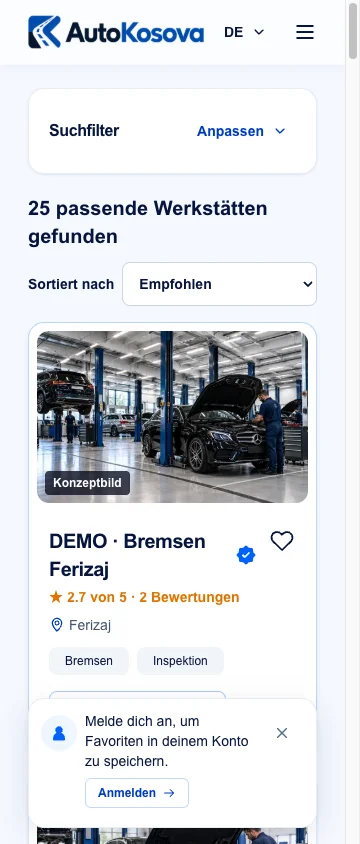
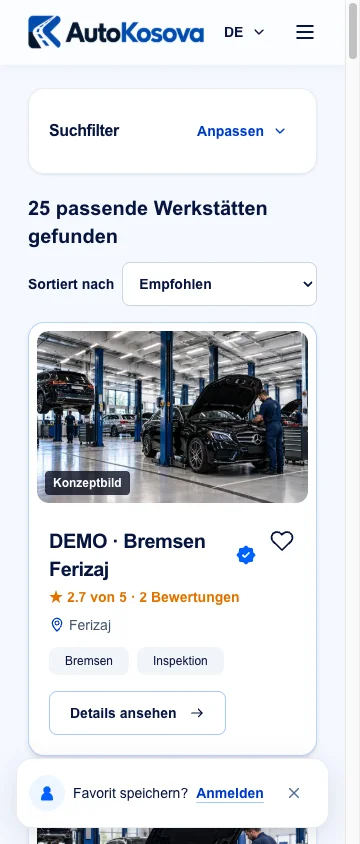
style: use compact inline sign-in link in favorite toast (#43)

Changed region(s): [[0.0611, 0.8318, 0.8861, 0.9858]]

diff --git a/src/app/search-handoff.component.ts b/src/app/search-handoff.component.ts
@@ -463,7 +463,7 @@ interface Area {
     }
     @if (favorites.message(); as message) {
       <div
-        class="pointer-events-none fixed right-0 bottom-[max(1rem,env(safe-area-inset-bottom))] left-0 z-50 mx-auto flex w-[calc(100%_-_1.5rem)] max-w-[1352px] justify-center px-4 sm:px-6 lg:w-[calc(100%_-_4rem)]"
+        class="pointer-events-none fixed right-0 bottom-[max(1rem,env(safe-area-inset-bottom))] left-0 z-50 mx-auto flex w-[calc(100%_-_2rem)] max-w-xl justify-center"
       >
         <div
           [attr.role]="message === 'error' ? 'alert' : 'status'"
@@ -486,21 +486,16 @@ interface Area {
               class="size-[18px]"
             />
           </span>
-          <div class="min-w-0 grow">
-            <p class="flex min-h-11 items-center leading-5 font-medium">
-              {{ ui('favorites.' + message) }}
-            </p>
+          <div
+            class="flex min-h-11 min-w-0 grow flex-wrap items-center gap-x-2 text-sm leading-5 font-medium"
+          >
+            <span>{{ ui('favorites.' + message) }}</span>
             @if (message === 'signIn') {
               <a
                 [href]="favoriteLoginUrl()"
-                class="group inline-flex min-h-11 items-center rounded-md focus-visible:outline-2 focus-visible:outline-offset-2 focus-visible:outline-brand"
+                class="inline-flex min-h-11 items-center rounded-sm font-semibold text-brand-dark underline decoration-brand/35 underline-offset-4 hover:decoration-brand focus-visible:outline-2 focus-visible:outline-offset-2 focus-visible:outline-brand"
+                >{{ ui('favorites.login') }}</a
               >
-                <span
-                  class="inline-flex items-center gap-1.5 rounded-md border border-brand/25 px-3 py-1.5 text-xs font-semibold text-brand-dark transition-colors group-hover:bg-blue-50"
-                >
-                  {{ ui('favorites.login') }}<app-icon name="arrow" class="size-3.5" />
-                </span>
-              </a>
             }
           </div>
           <button

diff --git a/src/shared/search-copy.ts b/src/shared/search-copy.ts
@@ -8,7 +8,7 @@ export const searchCopy: Readonly<Record<AppLanguage, Readonly<Record<string, st
     'favorites.remove': '{garage} aus Favoriten entfernen',
     'favorites.saved': 'Im Benutzerkonto als Favorit gespeichert.',
     'favorites.removed': 'Aus deinen Favoriten entfernt.',
-    'favorites.signIn': 'Melde dich an, um Favoriten in deinem Konto zu speichern.',
+    'favorites.signIn': 'Favorit speichern?',
     'favorites.error': 'Favoriten konnten nicht aktualisiert werden. Bitte versuche es erneut.',
 
     'search.ui.allLocations': 'Ganz Kosovo',
@@ -55,7 +55,7 @@ export const searchCopy: Readonly<Record<AppLanguage, Readonly<Record<string, st
     'favorites.remove': 'Hiq {garage} nga të preferuarat',
     'favorites.saved': 'U ruajt te të preferuarat në llogarinë tënde.',
     'favorites.removed': 'U hoq nga të preferuarat.',
-    'favorites.signIn': 'Hyr për të ruajtur të preferuarat në llogarinë tënde.',
+    'favorites.signIn': 'Ruaj të preferuarat?',
     'favorites.error': 'Të preferuarat nuk u përditësuan. Provo përsëri.',
 
     'search.ui.allLocations': 'Gjithë Kosova',
@@ -102,7 +102,7 @@ export const searchCopy: Readonly<Record<AppLanguage, Readonly<Record<string, st
     'favorites.remove': 'Remove {garage} from favorites',
     'favorites.saved': 'Saved to favorites in your account.',
     'favorites.removed': 'Removed from your favorites.',
-    'favorites.signIn': 'Sign in to save favorites in your account.',
+    'favorites.signIn': 'Save your favorites?',
     'favorites.error': 'Favorites could not be updated. Please try again.',
 
     'search.ui.allLocations': 'All of Kosovo',

diff --git a/docs/design/evidence/issue-43/README.md b/docs/design/evidence/issue-43/README.md
@@ -92,6 +92,6 @@ Navbar-Inhalt und Suchinhalt teilen exakt dieselben Außenkanten: bei allen vier
 
 ## Kompakte Favoriten-Hinweise
 
-Toasts sind maximal 576 px breit und unten mittig positioniert. Status-Icon, 14-px-Text und Schließen-Button bilden eine gemeinsame Zeile; der Gast-Hinweis enthält einen Anmelden-Button. Mobile Seitenabstände und Safe Area bleiben berücksichtigt. Fehler werden als Alert angekündigt, andere Hinweise als Status.
+Toasts sind maximal 576 px breit und unten mittig positioniert. Status-Icon, 14-px-Text und Schließen-Button bilden eine gemeinsame Zeile; der kurze Gast-Hinweis „Favorit speichern?“ enthält direkt daneben den Textlink „Anmelden“. Mobile Seitenabstände und Safe Area bleiben berücksichtigt. Fehler werden als Alert angekündigt, andere Hinweise als Status.
 
 [Echter Gast-Hinweis Desktop](toast-login-1448.webp), [Mobil 360](toast-login-360.webp). Die Zustände [Gespeichert](toast-saved-fixture.webp), [Entfernt](toast-removed-fixture.webp) und [Fehler](toast-error-fixture.webp) wurden für diese reine Darstellungsprüfung mit simulierten API-Antworten aufgenommen; der echte OIDC-/Persistenznachweis ist separat oben dokumentiert. Schließen und Anmelden-Link sind bedienbar, keine horizontalen Überläufe.
